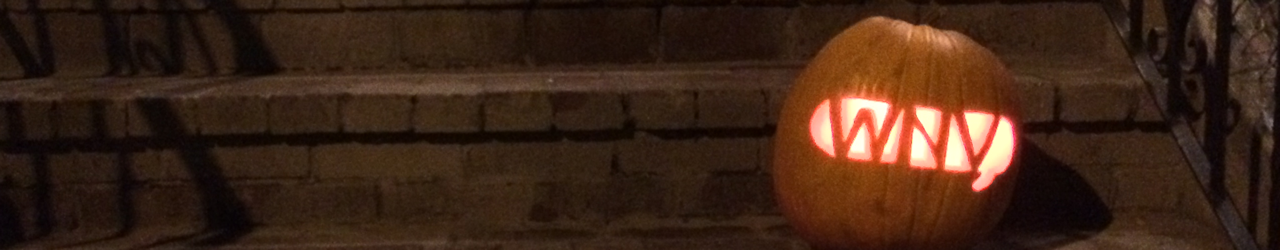
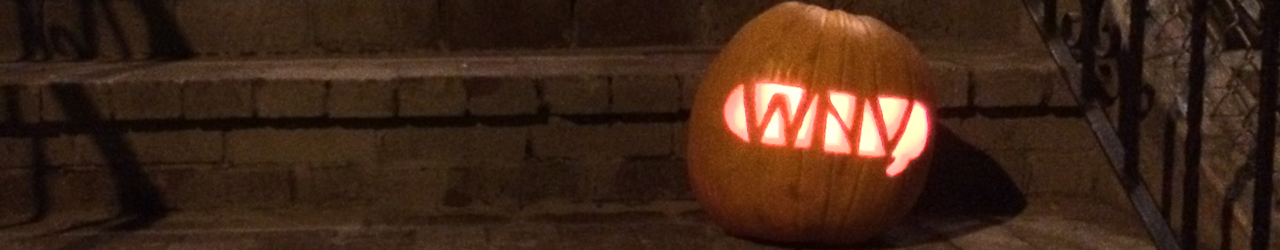
fix non-retina header and update halloween image

diff --git a/assets/css/main.css b/assets/css/main.css
@@ -822,6 +822,10 @@ ul#social-links li img{
 
 /* retina displays (mac/ipad only) */
 @media (-webkit-min-device-pixel-ratio: 2), (min-resolution: 192dpi) { 
+    .staremaster .item {
+        background: url(/assets/img/template/header_halloween@2x.png); 
+    }
+
     ul#thenavbar li.searchbox input{
         background: url(/assets/img/template/search_icon@2x.png) center right no-repeat #004D67;
         background-size: 40px 25px;
